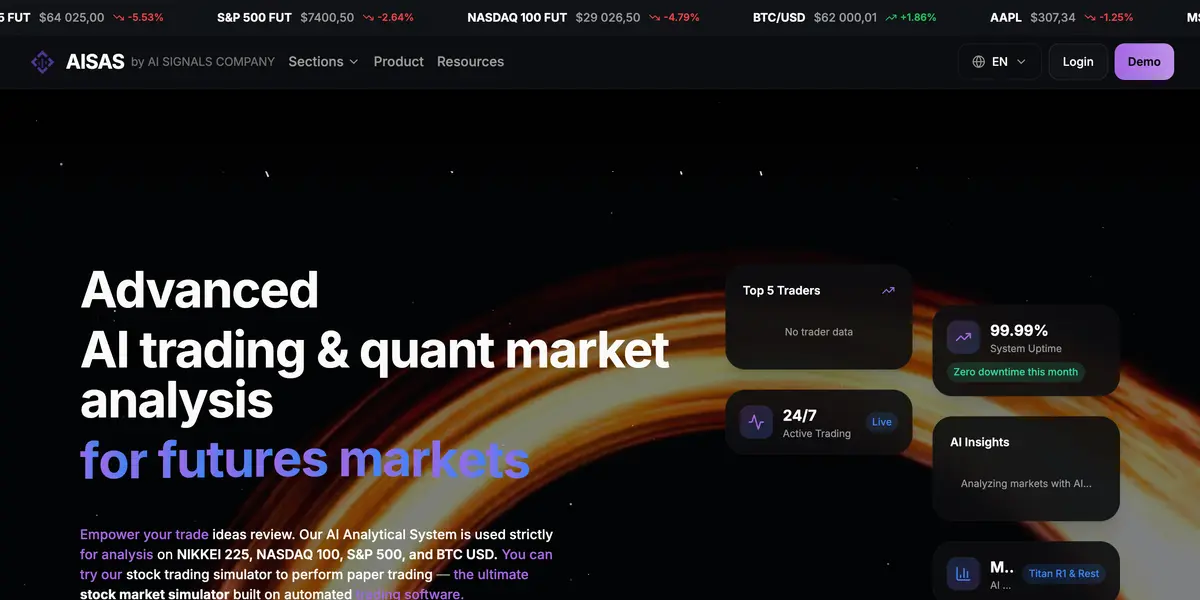
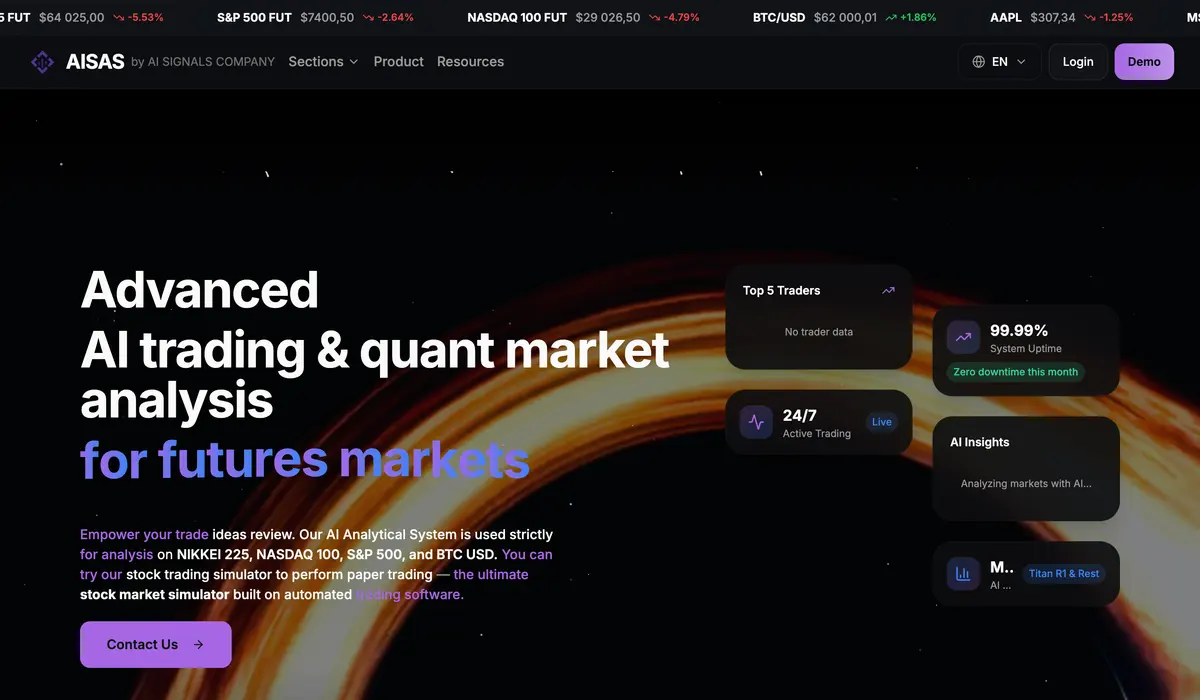
fix(portfolio): pelne hero ASE-BOT w kafelku, nizszy kafelek Stef-Bud
- ASE-BOT: kafel obejmuje teraz CALA sekcje hero (naglowek, widzety
  traderow, CTA - do granicy pasa "We Are Compatible With", 840 px CSS)
  zeskalowana do 1200x700 bez uciecia. Dymek czatu spoza kadru.
- Stef-Bud: wysokosc kafla zmniejszona 610 -> 520 (1200x520).
- Skyline po korektach klienta: 1.31 / 1.45 / 1.09 / 1.16 / 0.94 -
  dalej nierowny, dol z pasem GSC bez zmian.

Kafel Staniax (3. sekcja "Kim jestesmy") byl juz wdrozony w f50a223.

diff --git a/components/Portfolio.jsx b/components/Portfolio.jsx
@@ -111,8 +111,8 @@ const realizedWebsites = [
 const MOSAIC = [
 { src: '/projects/mosaic/mad-a.webp', w: 1200, h: 840, alt: 'Sekcja hero strony głównej restauracji Madame Thai', altEn: 'Hero section of the Madame Thai restaurant homepage' },
 { src: '/projects/mosaic/elkat-a.webp', w: 1200, h: 970, alt: 'Sekcja hero katalogu komponentów elektrycznych Elkat Power', altEn: 'Hero section of the Elkat Power electrical components catalogue' },
-{ src: '/projects/mosaic/ase-a.webp', w: 1200, h: 600, alt: 'Sekcja hero strony głównej platformy tradingowej ASE-BOT', altEn: 'Hero section of the ASE-BOT trading platform homepage' },
-{ src: '/projects/mosaic/fix-a.webp', w: 1200, h: 610, alt: 'Sekcja hero strony producenta świetlików dachowych Stef-Bud', altEn: 'Hero section of the Stef-Bud skylight manufacturer website' },
+{ src: '/projects/mosaic/ase-a.webp', w: 1200, h: 700, alt: 'Pełna sekcja hero platformy tradingowej ASE-BOT — AI trading i analiza rynków', altEn: 'Hero section of the ASE-BOT trading platform homepage' },
+{ src: '/projects/mosaic/fix-a.webp', w: 1200, h: 520, alt: 'Sekcja hero strony producenta świetlików dachowych Stef-Bud', altEn: 'Hero section of the Stef-Bud skylight manufacturer website' },
 { src: '/projects/mosaic/sta-a.webp', w: 1200, h: 790, alt: 'Sekcja „Kim jesteśmy" strony Staniax — metalizacja próżniowa, 25 lat doświadczenia', altEn: 'About section of the Staniax vacuum metallization website' },
 { src: '/projects/mosaic/tql-a.webp', w: 1200, h: 840, alt: 'Sekcja hero strony głównej TQL — wdrożenia norm ISO', altEn: 'Hero section of the TQL ISO implementation homepage' },
 { src: '/projects/gsc/staniax.webp', w: 1600, h: 726, alt: 'Panel Performance staniax.pl w Google Search Console: 152 kliknięcia i 6,34 tys. wyświetleń w 3 miesiące', altEn: 'Google Search Console performance panel for staniax.pl: 152 clicks and 6.34K impressions over 3 months' },
@@ -148,8 +148,8 @@ export default function Portfolio() {
      (tylko srodkowy-wysoki ma dwa hero), wierzcholki ponizej najwyzszego
      o +0.14 / 0 / +0.45 / +0.29 / +0.44 szerokosci kolumny. Nasze stosy:
      1.31 / 1.45 / 1.00 / 1.16 / 1.01 - odtwarzaja te przesuniecia co do
-     +-0.01 dzieki indywidualnym wysokosciom kafli hero (970/840/840/600/
-     790/610 przy szerokosci 1200). Kazda marka stoi nad swoim panelem
+     +-0.01 dzieki indywidualnym wysokosciom kafli hero (korekty klienta: ase-bot
+     z pelnym hero 700, Stef-Bud obnizony do 520; 970/840/840/700/790/520). Kazda marka stoi nad swoim panelem
      GSC (Madame Thai, ASE-BOT, Staniax), panele zamykaja kolumny od dolu.
      Ponizej 1280px round-robin: hero najpierw, GSC na koncu. */
   const columns = (() => {
